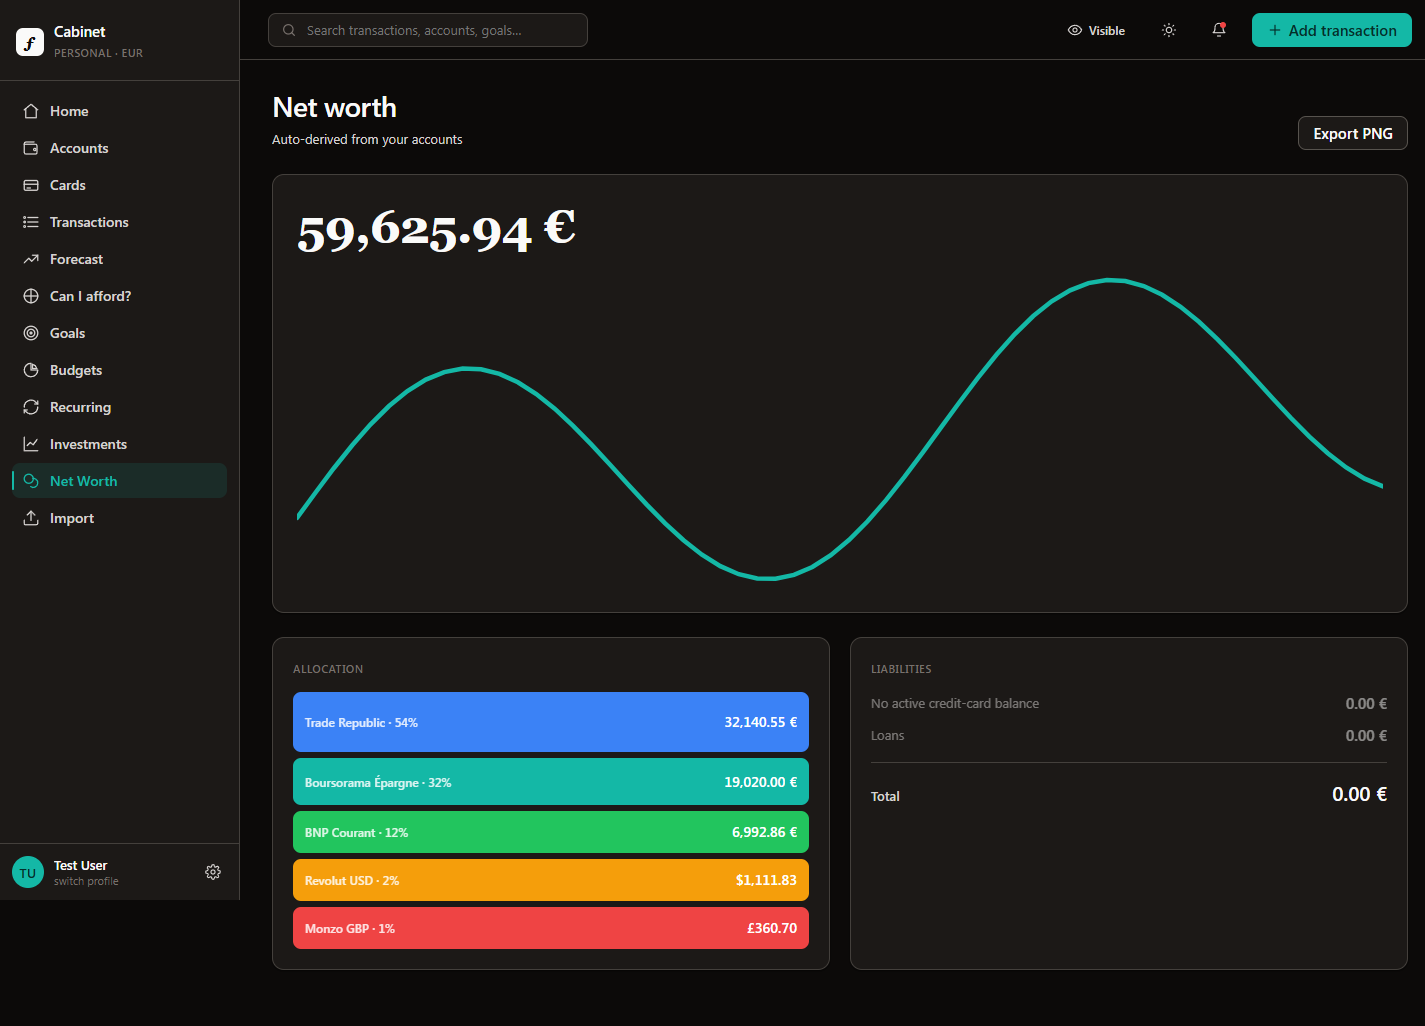
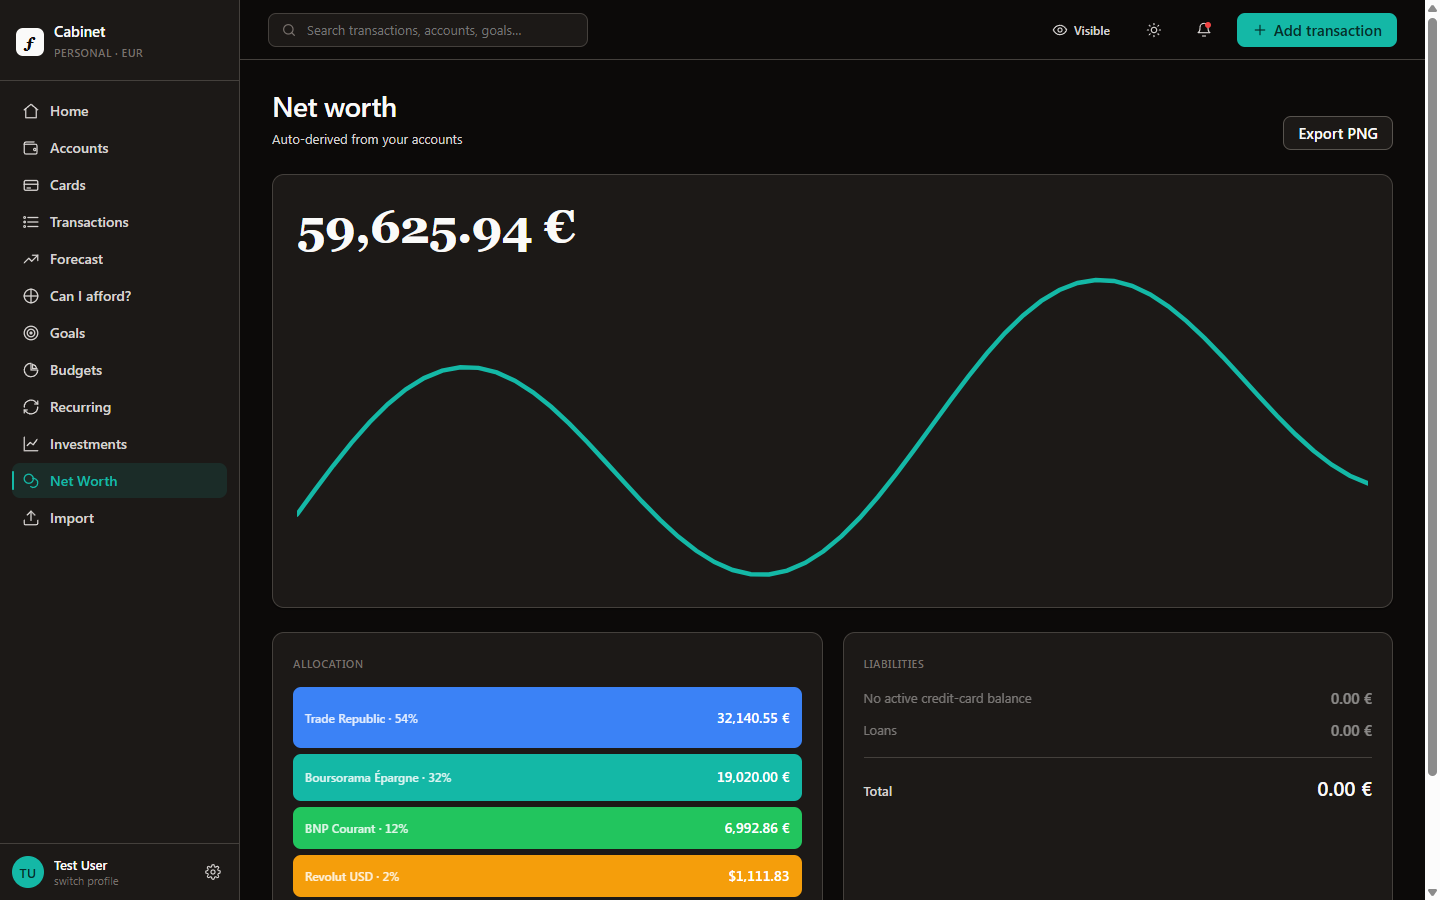
docs: re-capture desktop screenshots in viewport mode

diff --git a/screenshots/README.md b/screenshots/README.md
@@ -4,12 +4,14 @@ Visual reference for every page in the Finch app. Captured against the
 production build at `http://localhost:8765/` with the demo data set seeded via
 `FCStore.seedDemoData()` so screens are populated.
 
-- **Desktop** captures are 1440 × 900 (full-page, so each PNG is the entire
-  scrollable content, not just the viewport).
-- **Mobile** captures are 390 × 844 (iPhone 14 pro-ish portrait, **viewport only**
+- **Desktop** captures are 1440 × 900, **viewport-only** (not full-page).
+  The desktop shell has `position: sticky` chrome (sidebar with `height: 100vh`,
+  header with `top: 0`) that Playwright's scroll-and-stitch full-page mode
+  duplicates on tall pages — viewport-only avoids the stitching artifact.
+- **Mobile** captures are 390 × 844 (iPhone 14 pro-ish portrait), **viewport only**
   — the bottom tab bar is `position: fixed`, and Playwright's full-page mode
   doesn't reposition fixed elements for the expanded canvas, so viewport-only
-  captures the bar at the correct visual position).
+  captures the bar at the correct visual position.
 - **Auth** captures show the screens you see before signing in / before
   finishing onboarding / when the PIN lock kicks in.
 
